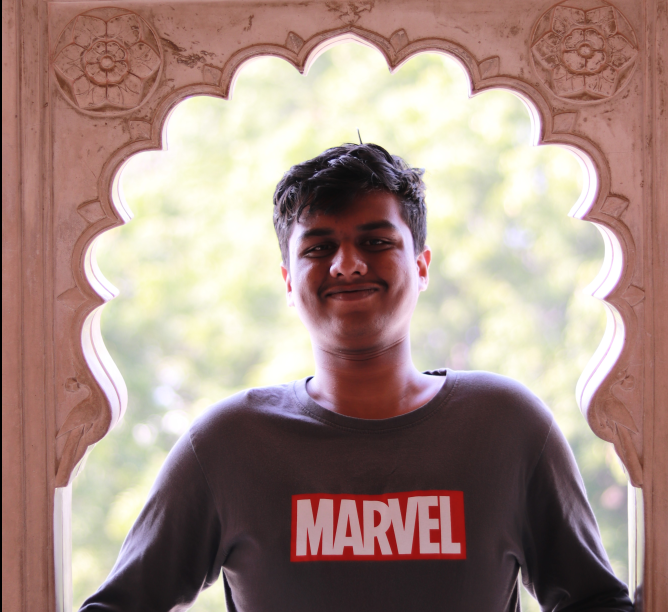
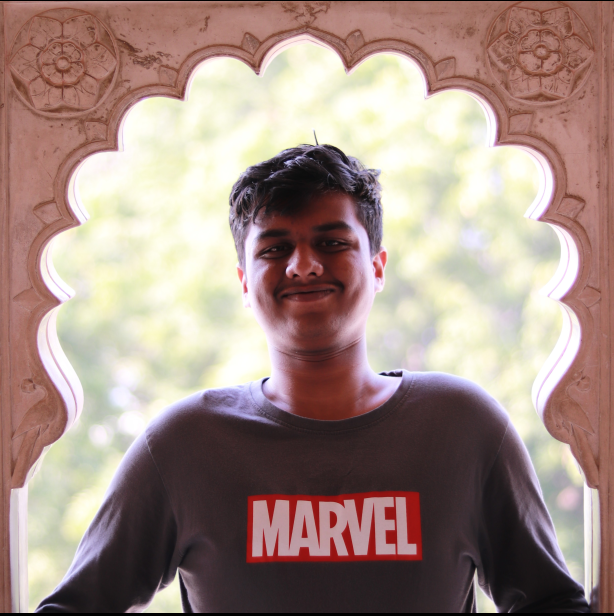
picture

diff --git a/index.html b/index.html
@@ -14,15 +14,14 @@ title: Hi!
 <section class="post">
 
     <article class="post-content">
-        <blockquote>
-            <p><em>Insert a nice picture. //have to learn how to insert pictures in jekyll.</em></p>
-        </blockquote>
+
+        <p><img src="/assets/img/me.png" width ="150" alt="alt text"></p>
 
         <p>Hi! I’m Karthik Perla.</p>
 
         <p>I like challenges - the frustration that comes while being stuck and the satisfaction that comes from
             overcoming them.</p>
-
+        
         <p>I work as the Assistant Plant Logistics Head at <a href="{{ site.url }}/grasim">Grasim Industries
                 Limited</a>. (We make fibre). I am also a graduate from India’s first <a
                 href="{{ site.url }}/nrti">Transportation Institute</a> with an undergraduate degree in Transportation

diff --git a/_sass/main.scss b/_sass/main.scss
@@ -681,3 +681,6 @@ article.post-content {
     max-width: 100%;
 }
 
+img {
+    border-radius: 50%;
+  }

diff --git a/about.md b/about.md
@@ -4,8 +4,6 @@ title: More about Myself
 permalink: /about/
 ---
 
-![alt text](/assets/img/me.png)
-
 <h1 class="post-title">
 <span class="bg-clip-text text-transparent bg-gradient-to-r from-my-orange to-my-pink text-5xl font-extrabold">ducunt volentem fata, nolentem trahunt</span>
 </h1> [^1]
